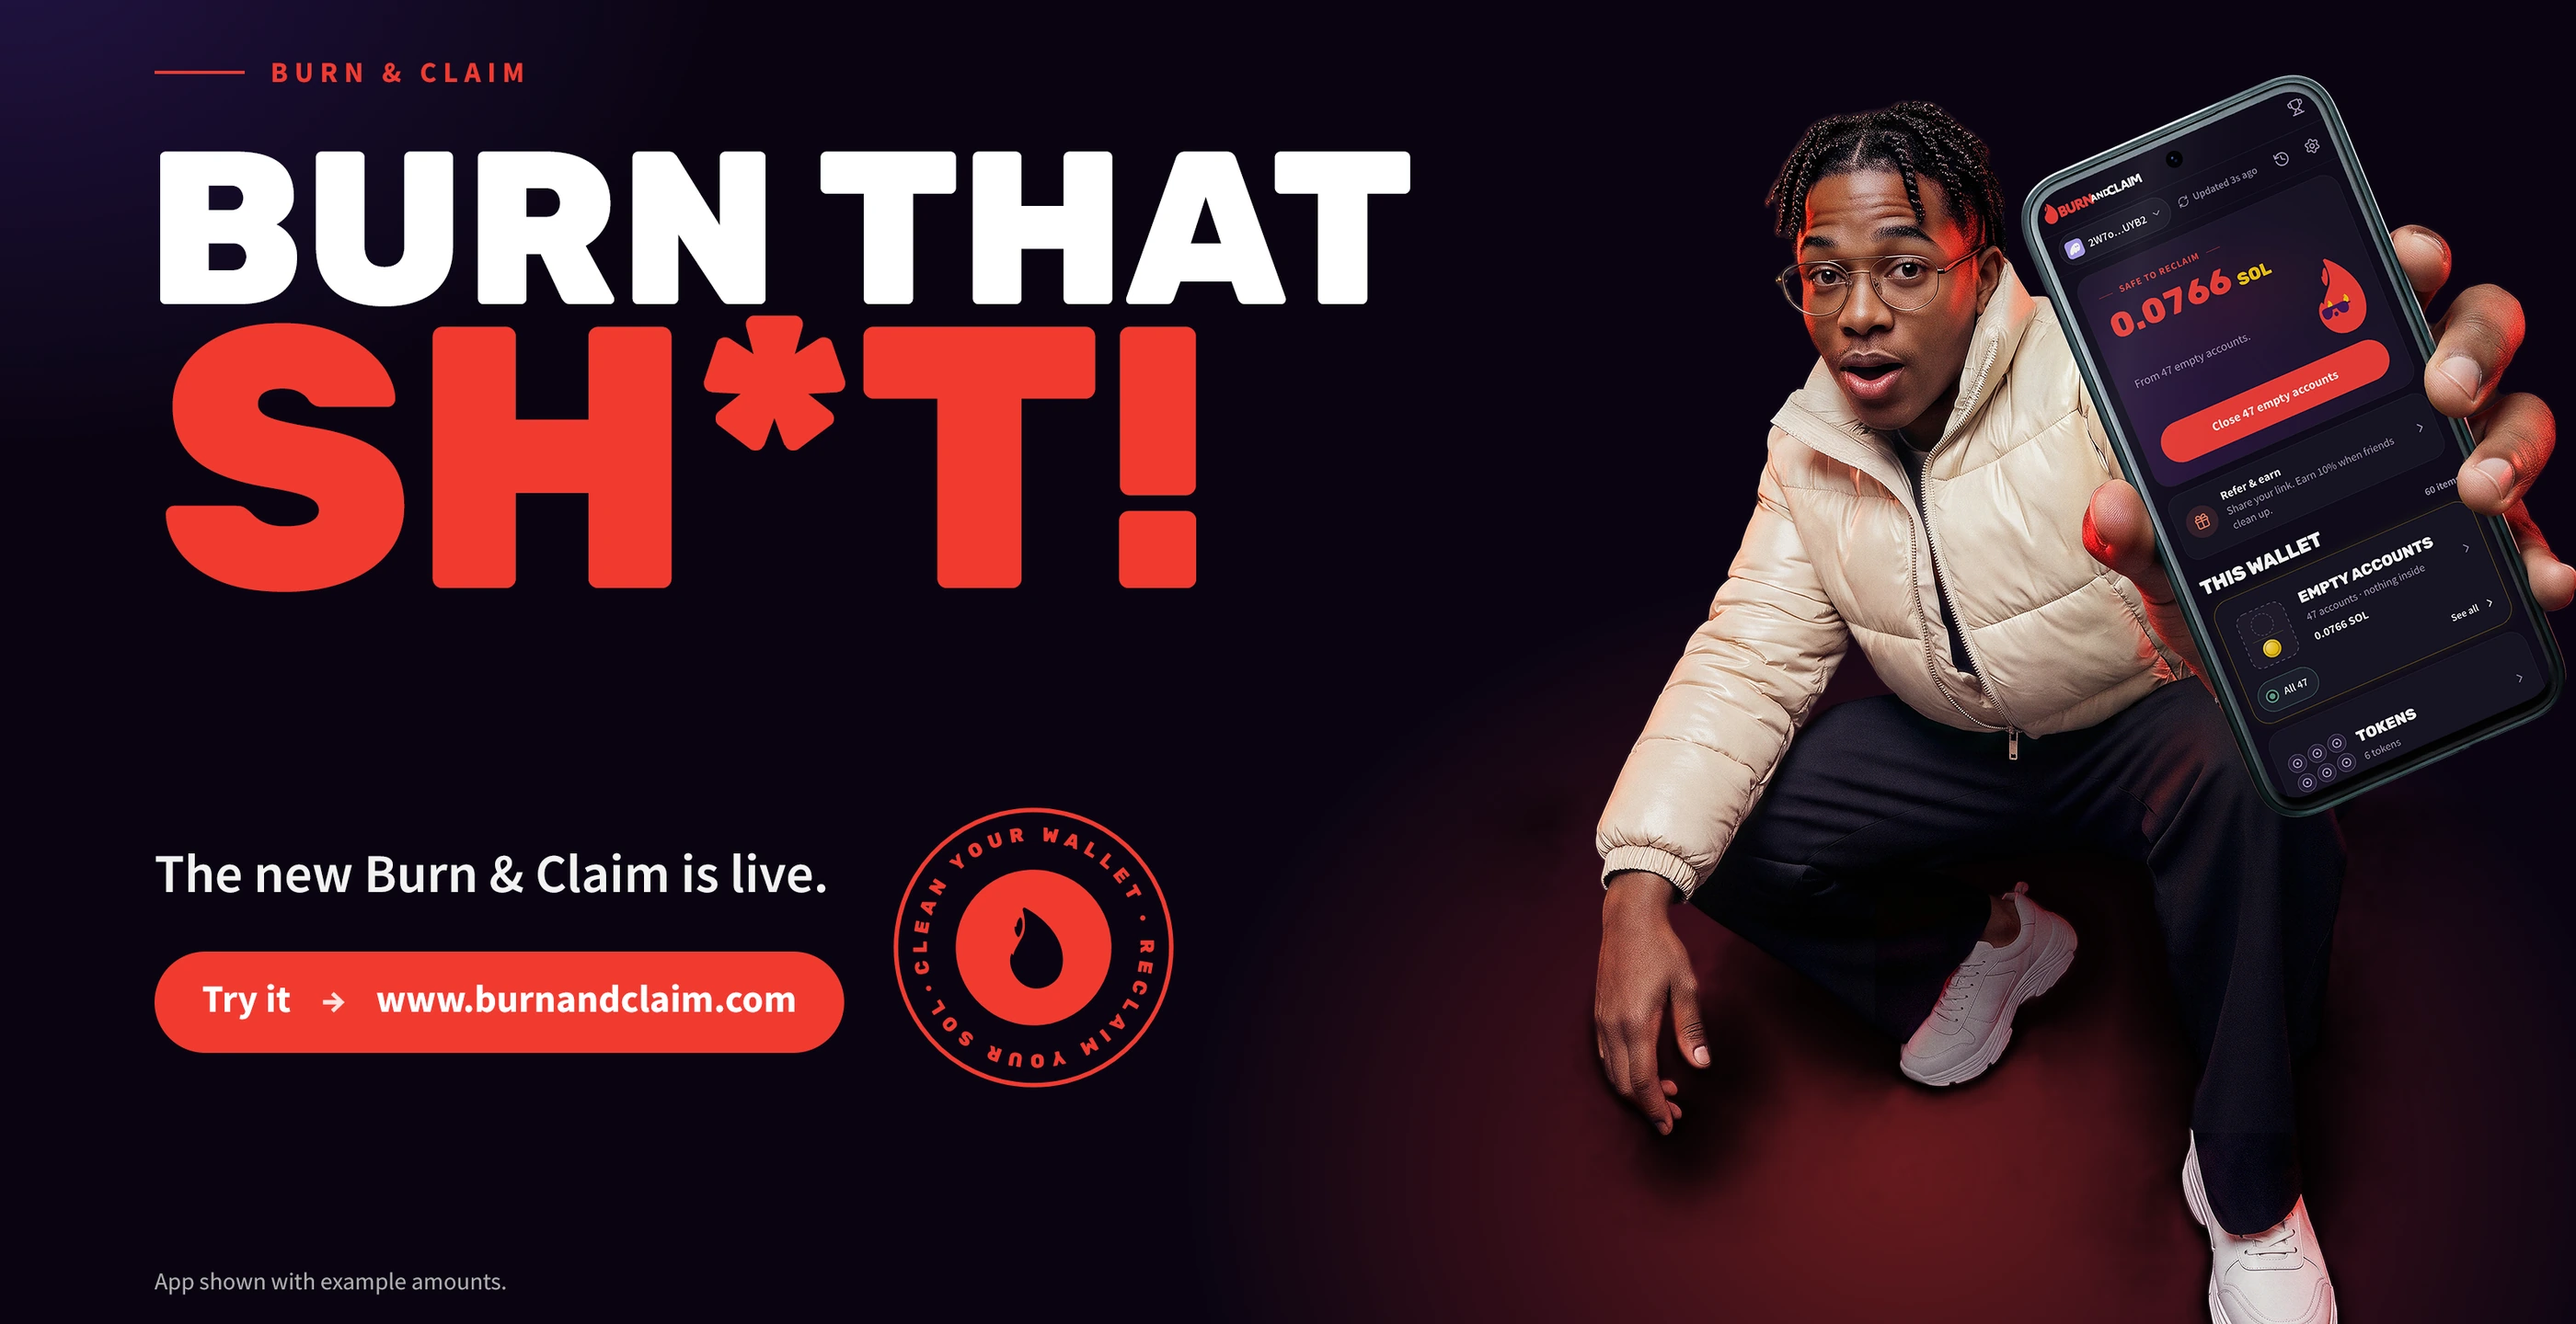
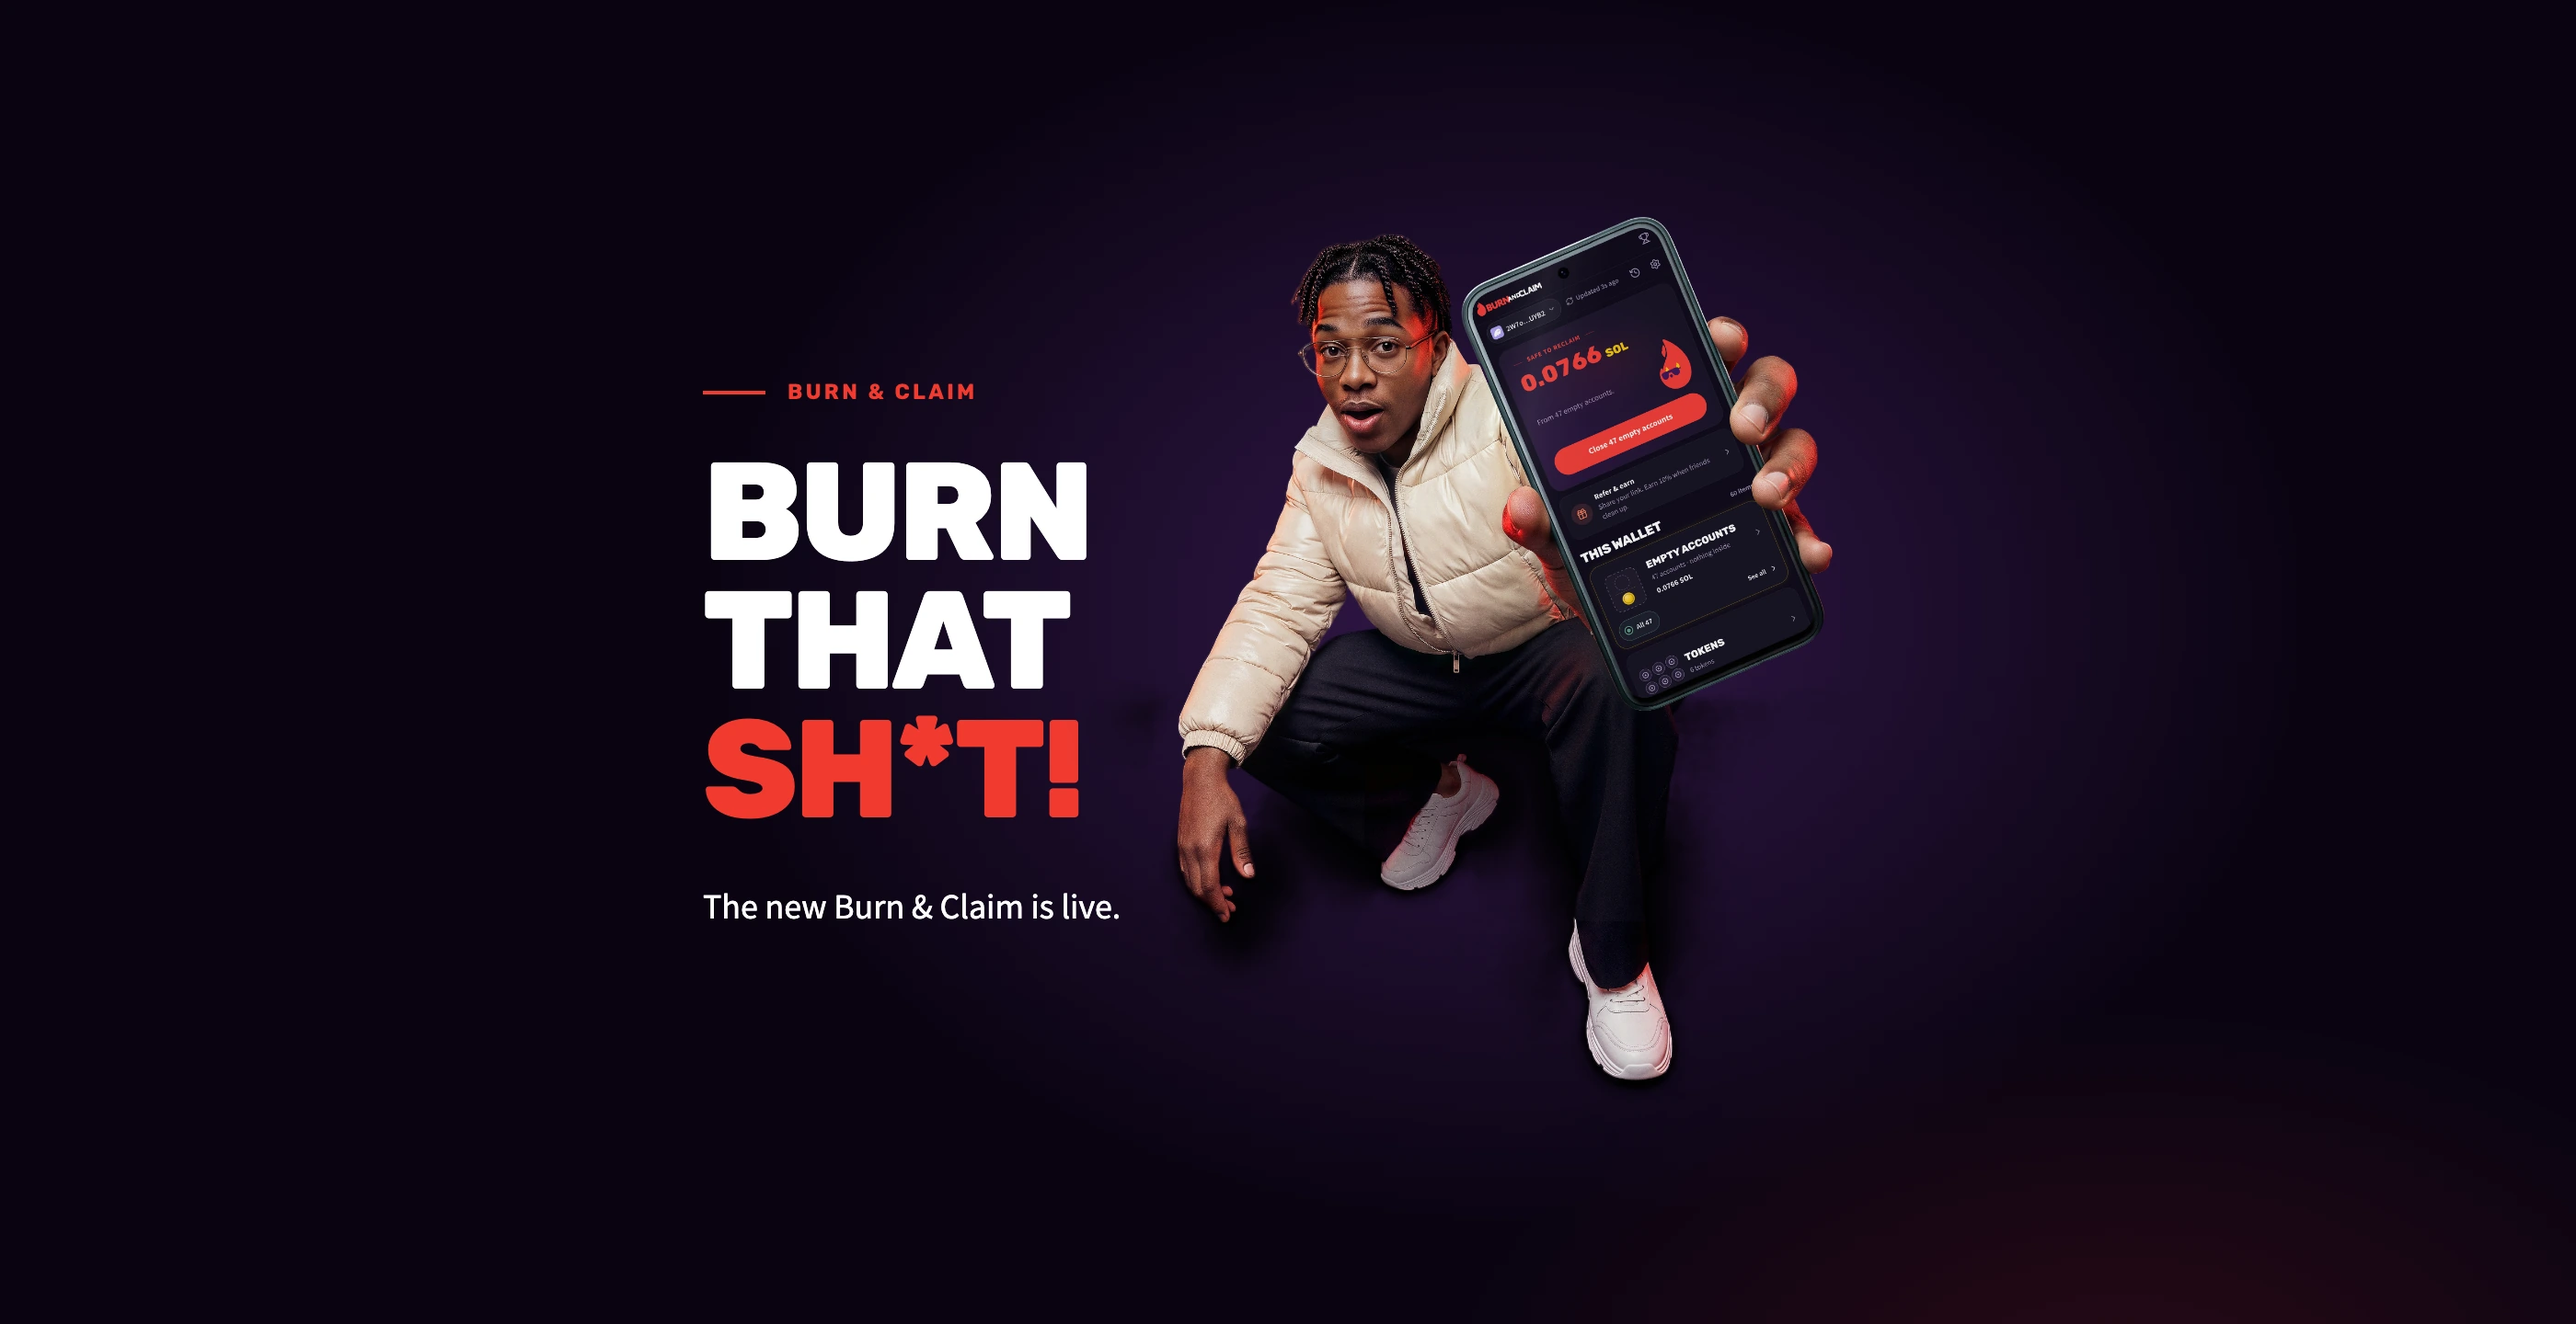
Burn That Sh*t: how the photos were made, and a hero that fits the crop
Replaces bts-x-MY-01.webp (same name and size: the headline, line and the
clean Crouch photo now sit inside the area the hero crop keeps at 390 and
1440). Adds the three process panels moved over from Burn & Claim
(bts-proceso-tomas, -realismo, -capas, with -en versions) and reorders
the case: hero, 02a, phone, 02b, 03, laptop, takes, realism, sticker,
layers, 04, Seeker, 05. The process paragraph and the photos line in
shipped are the longer versions, in ES and EN.

diff --git a/src/projects.tsx b/src/projects.tsx
@@ -148,14 +148,14 @@ const burnThatShtProject: Project = {
   briefEn: "Burn & Claim was launching its new app and its new look in November 2026, and it had to land on X without looking like a different product. Same tool for cleaning your wallet and getting your SOL back, just faster and a lot better looking. The campaign had to sound the way Burn & Claim always has, cheeky and straight to the point, and look bigger than it ever had. I made it on my own with AI tools, so it also had to prove that a campaign built on generated photos can look real.",
   shipped: [
     "El concepto, con la línea de siempre al frente: «Burn that sh*t!».",
-    "Seis escenas con gente usando la app nueva en un Seeker, cada una en 4:5, 1:1 y 16:9 (18 piezas). Las fotos son generadas con IA y dirigidas por mí; la pantalla de la app y el logo son los reales, montados encima.",
+    "Seis escenas con gente usando la app nueva en un Seeker, cada una en 4:5, 1:1 y 16:9 (18 piezas). Las fotos son generadas con IA y dirigidas por mí: tandas de tomas para escoger, una sola pasada de realismo, y la pantalla de la app y el logo reales montados encima.",
     "El sistema: titulares en Rubik 820, negro, rojo y blanco, sellos, tags y un cierre fijo con el CTA.",
     "Dos posts de expectativa: la llama apagada, y al día siguiente encendida.",
     "Las piezas en PSD editables, con la pantalla de la app como objeto inteligente para cambiarla cuando la app cambie.",
   ],
   shippedEn: [
     "The concept, with the line Burn & Claim has always had up front: “Burn that sh*t!”.",
-    "Six scenes of people using the new app on a Seeker, each in 4:5, 1:1 and 16:9 (18 pieces). The photos are AI generated under my direction; the app screen and the logo are the real ones, placed on top.",
+    "Six scenes of people using the new app on a Seeker, each in 4:5, 1:1 and 16:9 (18 pieces). The photos are AI generated under my direction: batches of takes to pick from, a single realism pass, and the real app screen and logo placed on top.",
     "The system: headlines in Rubik 820, black, red and white, stamps, tags and a fixed closing with the CTA.",
     "Two teaser posts: the flame unlit, and lit the next day.",
     "Editable PSDs for every piece, with the app screen as a smart object so it can be swapped when the app changes.",
@@ -176,12 +176,12 @@ const burnThatShtProject: Project = {
   heroImage: "/img/projects/burn-that-sht/bts-x-MY-01.webp",
   paragraphs: [
     "La app nueva era lo que vendíamos, así que tenía que salir en todas las piezas. Las armé alrededor de un Seeker en la mano de alguien: uno agachado que te lo pone en la cara, otra que se tira hacia ti, una mano con un anillo dorado que lo levanta como si fuera un trofeo. Siempre con la pantalla real de la app, justificada arriba para que el logo se vea completo, y montos de ejemplo marcados como ejemplo.",
-    "Las fotos las hice con IA, y lo primero que aprendí es que una foto generada no se arregla, se escoge. Al principio retocaba una toma ronda tras ronda (un dedo, una uña, un anillo) y cada arreglo dañaba otra cosa. Así que cambié el método: pedir muchas tomas con el teléfono ya en la mano, quedarme con la mejor, darle una sola pasada de realismo y no tocarla más. La app y el logo nunca los genera la IA: van encima, reales, como se haría con una foto de estudio.",
+    "Las fotos las hice con IA, y la primera lección fue que una foto generada no se arregla, se escoge. Pasé varias rondas retocando la misma toma, un dedo por aquí, una uña por allá, y cada arreglo rompía otra cosa. Así que cambié el método. Armé cada escena con un bloque gris donde iba el teléfono y pedí tandas de tomas con el Seeker ya en la mano, usando fotos reales de cómo se agarra un teléfono como referencia. De cada tanda me quedé con una y no la volví a pedir. Después, una sola pasada de realismo: probé una versión más creativa que se veía más pulida, pero me cambiaba la uña, el marco y la zapatilla, y me quedé con la fiel. Lo que vende nunca lo generó la IA: la pantalla es la app real, puesta en perspectiva, y el logo, los titulares y el sello van encima, en capas que se actualizan solas cuando cambia la app.",
     "Después vino el orden. Titular grande en Rubik, blanco y rojo sobre casi negro, porque Burn & Claim siempre ha sido eso. El sello y los tags se fueron al cierre, al lado del CTA y lejos del teléfono, porque al principio competían con la app y la app gana. Antes del día del lanzamiento salieron dos posts chiquitos: la llama apagada, «Something's coming», y al otro día la llama prendida, «Same burn. New look.». Ese era todo el mensaje.",
   ],
   paragraphsEn: [
     "The new app was the thing we were selling, so it had to be in every single piece. I built them around a Seeker in someone's hand: a guy crouching and pushing it right at you, a woman lunging toward the camera, a hand with a chunky gold ring holding it up like a trophy. Always with the real app screen, top-aligned so the logo shows in full, and example amounts marked as examples.",
-    "I made the photos with AI, and the first thing I learned is that you don't fix a generated photo, you pick one. At first I kept retouching the same shot round after round (a finger, a nail, a ring) and every fix broke something else. So I changed the method: ask for lots of takes with the phone already in the hand, keep the best one, give it a single realism pass and leave it alone. The app and the logo are never generated: they go on top, real, the way you would do it with a studio photo.",
+    "I made the photos with AI, and the first lesson was that you don't fix a generated photo, you pick one. I spent several rounds retouching the same shot, a finger here, a nail there, and every fix broke something else. So I changed the method. I set up each scene with a grey block where the phone would go and asked for batches of takes with the Seeker already in hand, using real photos of how people hold a phone as reference. From each batch I kept one and stopped there. Then a single realism pass: I tried a more creative version that looked more polished, but it changed the nail, the frame and the sneaker, so I kept the faithful one. The part that sells was never generated: the screen is the real app, set in perspective, and the logo, the headlines and the stamp sit on top, in layers that update on their own when the app changes.",
     "Then came the order. Big headlines in Rubik, white and red on almost black, because that's what Burn & Claim has always been. The stamp and the tags moved down to the closing, next to the CTA and away from the phone, because at first they were fighting with the app, and the app wins. Before launch day we put out two tiny posts: the flame unlit, “Something's coming”, and the next day the flame lit, “Same burn. New look.”. That was the whole message.",
   ],
   images: [
@@ -190,10 +190,13 @@ const burnThatShtProject: Project = {
     "/img/projects/burn-that-sht/bts-x-MY-02b.webp",
     "/img/projects/burn-that-sht/bts-x-MY-03.webp",
     "/img/projects/burn-that-sht/bts-laptop-mockup.webp",
-    "/img/projects/burn-that-sht/bts-x-MY-04.webp",
+    "/img/projects/burn-that-sht/bts-proceso-tomas.webp",
+    "/img/projects/burn-that-sht/bts-proceso-realismo.webp",
     "/img/projects/burn-that-sht/bts-sticker-mockup.webp",
-    "/img/projects/burn-that-sht/bts-x-MY-05.webp",
+    "/img/projects/burn-that-sht/bts-proceso-capas.webp",
+    "/img/projects/burn-that-sht/bts-x-MY-04.webp",
     "/img/projects/burn-that-sht/bts-seeker-mockup.webp",
+    "/img/projects/burn-that-sht/bts-x-MY-05.webp",
   ],
   imagesEn: [
     "/img/projects/burn-that-sht/bts-x-MY-02a.webp",
@@ -201,10 +204,13 @@ const burnThatShtProject: Project = {
     "/img/projects/burn-that-sht/bts-x-MY-02b.webp",
     "/img/projects/burn-that-sht/bts-x-MY-03.webp",
     "/img/projects/burn-that-sht/bts-laptop-mockup.webp",
-    "/img/projects/burn-that-sht/bts-x-MY-04.webp",
+    "/img/projects/burn-that-sht/bts-proceso-tomas-en.webp",
+    "/img/projects/burn-that-sht/bts-proceso-realismo-en.webp",
     "/img/projects/burn-that-sht/bts-sticker-mockup.webp",
-    "/img/projects/burn-that-sht/bts-x-MY-05-en.webp",
+    "/img/projects/burn-that-sht/bts-proceso-capas-en.webp",
+    "/img/projects/burn-that-sht/bts-x-MY-04.webp",
     "/img/projects/burn-that-sht/bts-seeker-mockup.webp",
+    "/img/projects/burn-that-sht/bts-x-MY-05-en.webp",
   ],
 };
 
